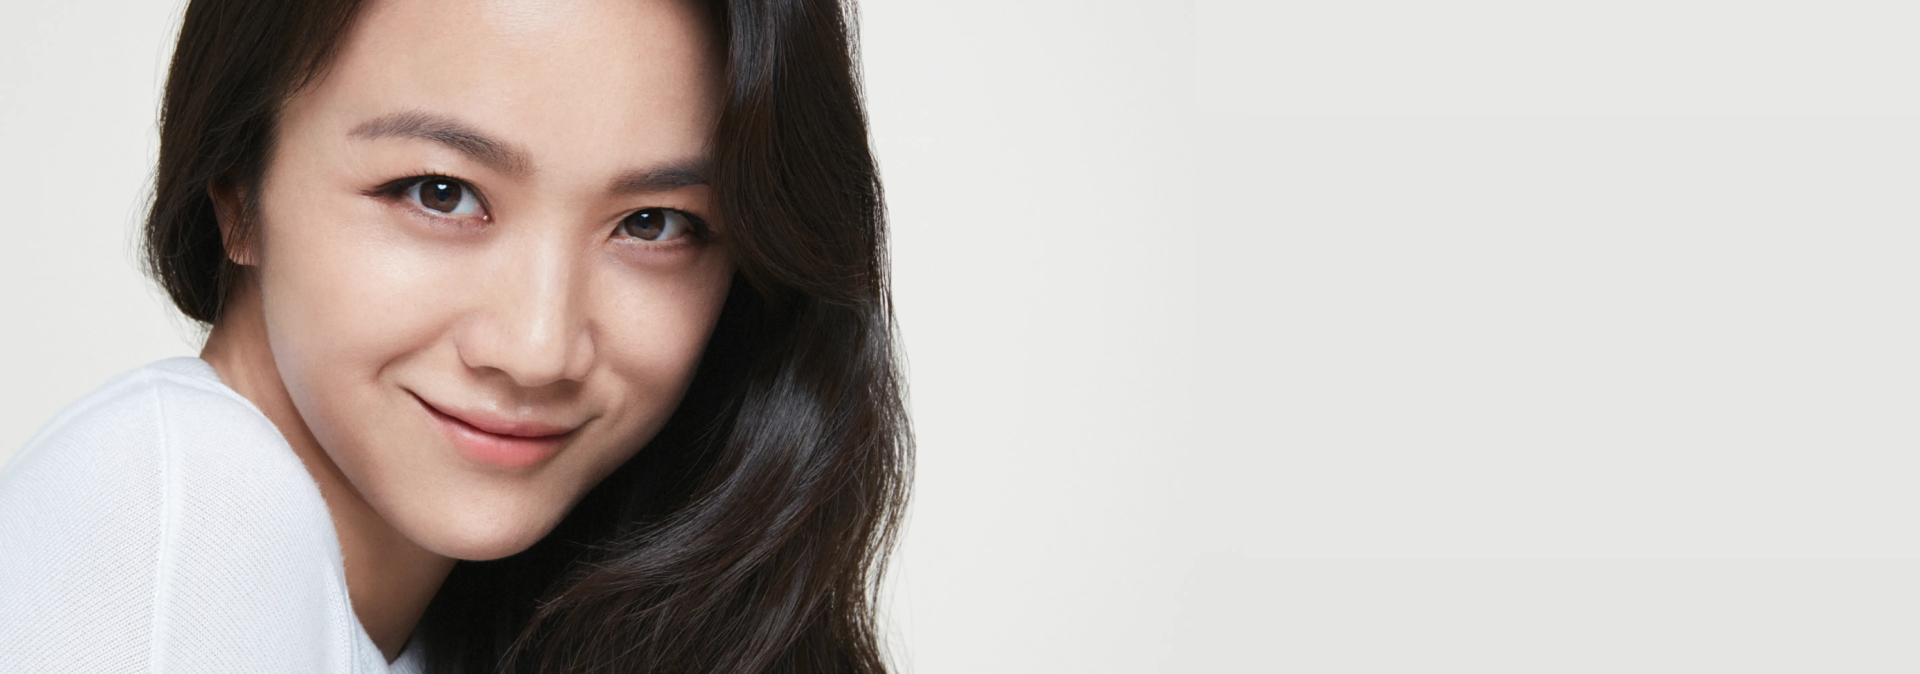
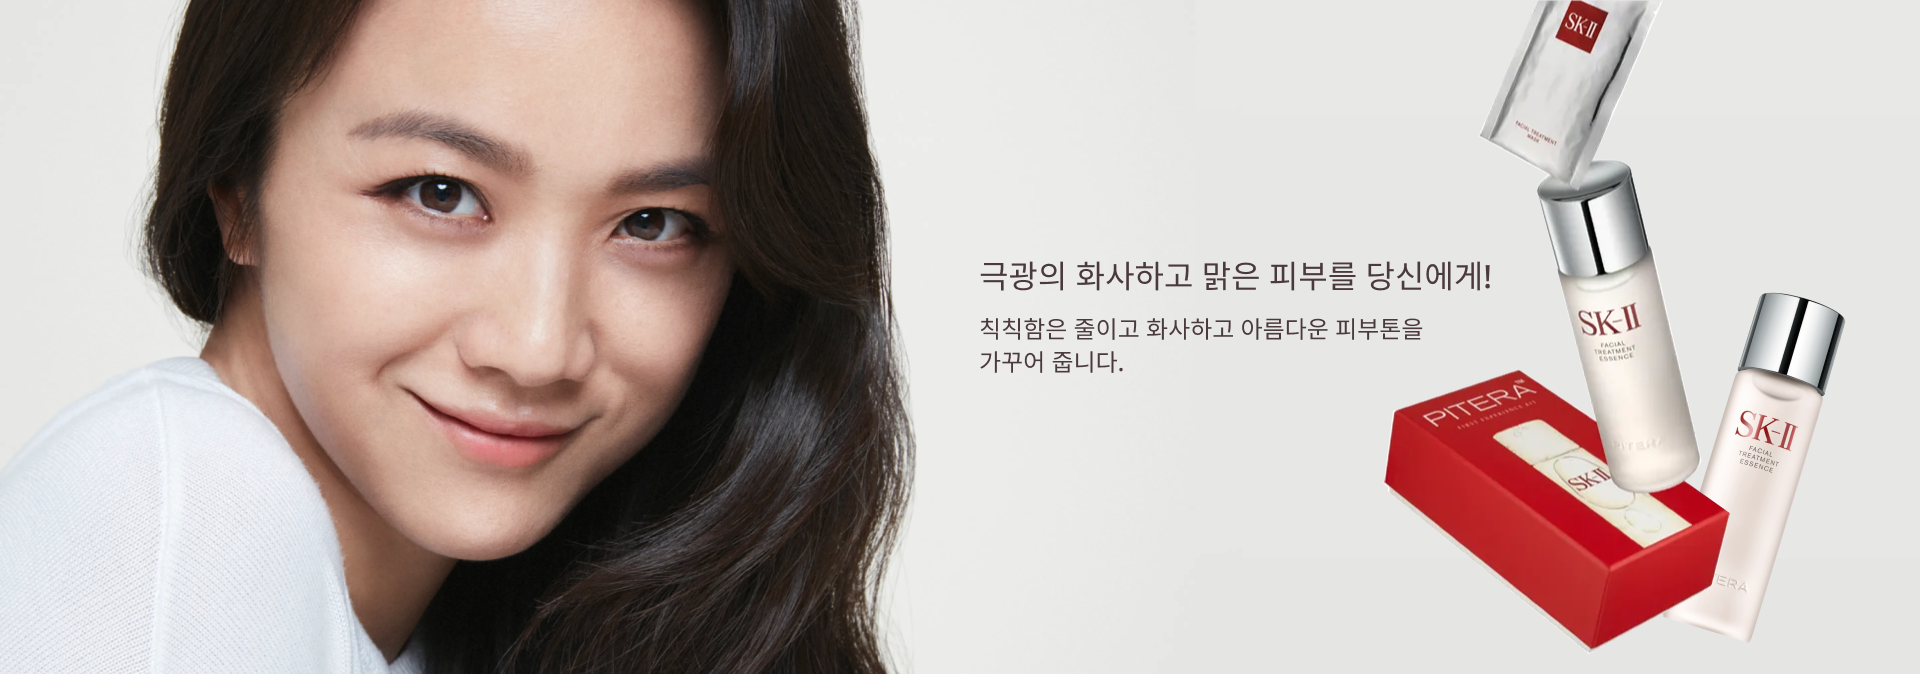
main slide css

Changed region(s): [[0.7188, 0.0, 0.9688, 0.9659], [0.5, 0.3739, 0.7812, 0.4362], [0.5, 0.4674, 0.75, 0.5608]]

diff --git a/SK-II/css/sk2.min.css b/SK-II/css/sk2.min.css
@@ -1,1 +1,1 @@
-@import"default.css";@import"//fonts.googleapis.com/earlyaccess/notosanskr.css";body{background:#ededed;font-family:"Noto Sans KR",sans-serif}#header{width:100%;height:100px;top:0;background:#d90327;position:relative;z-index:1}#innerbox{width:100%;height:auto;position:absolute;top:0;z-index:99999}#innerbox h1{position:absolute;z-index:9999;width:99px;height:42px;top:25px;left:20%}#innerbox .navigation{width:100%;height:100px;position:fixed;display:flex;background:linear-gradient(180deg, rgba(255, 255, 255, 0) 0%, rgba(255, 255, 255, 0.5) 100%);-webkit-backdrop-filter:blur(15px);backdrop-filter:blur(15px)}#innerbox .navigation .gnb{display:flex;flex-direction:row;width:100%;height:50px;position:absolute;line-height:50px;font-size:1.25rem;top:25px;left:30%}#innerbox .navigation .gnb>li{justify-content:space-between;text-align:center;margin-left:30px}#innerbox .navigation .gnb>li>a{font-weight:bold;color:#fff}#innerbox .navigation .gnb>li>a>span{display:block;width:100%;height:5px;background:#fff;margin-top:-10px}#innerbox .navigation .gnb>li .sub{width:60%;height:500px;background:#fff;position:absolute;top:75px;left:-160px;box-sizing:border-box;border-radius:0 0 20px 20px;display:none}#innerbox .navigation .gnb>li .sub>li{display:flex;flex-direction:column;line-height:40px;text-align:left;margin:20px 0 0 10%}#innerbox .navigation .gnb>li .sub>li>a{color:#222}#innerbox .navigation .gnb>li .sub>li>a>span{position:absolute;top:48px;left:330px}#innerbox .navigation .gnb>li .sub>li a:hover{color:#f02}#innerbox .navigation .gnb>li .sub>li:first-child{margin-top:40px}#navbar{display:none}#main_slide{width:100%;height:674px}
+@import"default.css";@import"//fonts.googleapis.com/earlyaccess/notosanskr.css";body{background:#ededed;font-family:"Noto Sans KR",sans-serif}#header{width:100%;height:100px;top:0;background:#d90327;position:relative;z-index:1}#innerbox{width:100%;height:auto;position:absolute;top:0;z-index:99999}#innerbox h1{position:absolute;z-index:9999;width:99px;height:42px;top:25px;left:20%}#innerbox .navigation{width:100%;height:100px;position:fixed;display:flex;background:linear-gradient(180deg, rgba(255, 255, 255, 0) 0%, rgba(255, 255, 255, 0.5) 100%);-webkit-backdrop-filter:blur(15px);backdrop-filter:blur(15px)}#innerbox .navigation .gnb{display:flex;flex-direction:row;width:100%;height:50px;position:absolute;line-height:50px;font-size:1.15rem;top:20px;left:32%}#innerbox .navigation .gnb>li{justify-content:space-between;text-align:center;margin-left:30px}#innerbox .navigation .gnb>li>a{font-weight:500;color:#fff}#innerbox .navigation .gnb>li>a>span{display:block;width:100%;height:5px;background:#fff;margin-top:-10px}#innerbox .navigation .gnb>li .sub{width:60%;height:500px;background:#fff;position:absolute;top:75px;left:-160px;box-sizing:border-box;border-radius:0 0 20px 20px;display:none}#innerbox .navigation .gnb>li .sub>li{display:flex;flex-direction:column;line-height:40px;text-align:left;margin:20px 0 0 10%}#innerbox .navigation .gnb>li .sub>li>a{color:#222}#innerbox .navigation .gnb>li .sub>li>a>span{position:absolute;top:48px;left:330px}#innerbox .navigation .gnb>li .sub>li a:hover{color:#f02}#innerbox .navigation .gnb>li .sub>li:first-child{margin-top:40px}#navbar{display:none}#main_slide{width:100%;height:auto;position:relative}#main_slide>button{width:80px;height:100px;background:rgba(255,255,255,.6);position:absolute;cursor:pointer;z-index:8888}#main_slide>button:nth-of-type(1){left:0;top:40%}#main_slide>button:nth-of-type(2){right:0;top:40%;transform:rotateY(180deg)}#main_slide>button>img{margin:25px;left:20px}#main_slide>ul{display:flex;overflow:hidden}#main_slide>ul>li>img{width:100vw}#main_slide>ul .slide1 .inner-wrapper1>p{width:560px;height:35px;position:absolute;top:40%;color:#fff;left:15%;font-size:30px}#main_slide>ul .slide1 .inner-wrapper1>p:nth-of-type(2){top:55%}#main_slide>ul .slide1 .inner-wrapper1>p:nth-of-type(3){top:410px;font-size:.9rem;top:80%}

diff --git a/SK-II/index.html b/SK-II/index.html
@@ -64,31 +64,23 @@
     </header>
     <section>
         <div id="main_slide">
+            <button><img src="attr/icon/slideBtn.png"></button>
+            <button><img src="attr/icon/slideBtn.png"></button>
             <ul>
                 <li class="slide1">
                     <img src="attr/main_slide/Slide1.png" alt="">
                     <div class="inner-wrapper1">
                         <p>당신의 피부를 맑고 화사하게<br>
                             밝혀주는 <strong>브라이트닝 에센스</strong>를 만나보세요</p>
-                        <p>모두가 인정하는 넘버 원 브라이트닝 에센스<br>
-                            *2021년 10월 기점의 관련 시장 판매액 및 판매량 기준</p>
+                        <p>모두가 인정하는 넘버 원 브라이트닝 에센스</p>
+                        <p>*2021년 10월 기점의 관련 시장 판매액 및 판매량 기준</p>
                     </div>
                 </li>
                 <li class="slide2">
                     <img src="attr/main_slide/Slide2.png" alt="">
-                    <div class="inner-wrapper2">
-                        <p>극광의 화사하고 맑은 피부를 당신에게!</p>
-                        <p>칙칙함은 줄이고 화사하고 아름다운 피부톤을 가꾸어 줍니다.</p>
-                        <img src="attr/main_slide/bannerSkin.png" alt="">
-                    </div>
                 </li>
                 <li class="slide3">
                     <img src="attr/main_slide/Slide3.png" alt="">
-                    <div class="inner-wrapper3">
-                        <p>건조한 피부를 다시 촉촉한 수분감으로 가득 채워주는 <strong>스킨파워크림</strong>과 함께하세요</p>
-                        <p>강력하고 풍부한 수분감으로 피부 속 깊은 곳부터 강력한 힘을 불어넣습니다.</p>
-                        <img src="attr/main_slide/bannerCream.png" alt="">
-                    </div>
                 </li>
             </ul>
         </div>
@@ -130,5 +122,23 @@
             </div>
         </div>
     </section>
+    <section>
+
+    </section>
+    <footer>
+        <div id="sns">
+            <img src="attr/icon/sns1.png">
+            <img src="attr/icon/sns2.png">
+            <img src="attr/icon/sns3.png">
+            <img src="attr/icon/sns4.png">
+        </div>
+        <div class="footer_txt">
+            <img src="attr/logo/logo-white.png">
+            <p>© 2023 Procter & Gamble. All Rights Reserved. JVA2020-02-001</p>
+            <p><a href="#">고객센터</a></p>
+            <p><a href="#">개인정보처리방침</a></p>
+            <p><a href="#">이용약관</a></p>
+        </div>
+    </footer>
 </body>
 </html>

diff --git a/SK-II/css/scss/sk2.scss b/SK-II/css/scss/sk2.scss
@@ -44,15 +44,15 @@ body{
             height: 50px;
             position: absolute;
             line-height: 50px;
-            font-size: 1.25rem;
-            top: 25px;
-            left: 30%;
+            font-size: 1.15rem;
+            top: 20px;
+            left: 32%;
             >li{
                 justify-content: space-between;
                 text-align: center;
                 margin-left: 30px;
                 >a{
-                    font-weight: bold;
+                    font-weight: 500;
                     color: #fff;
                     >span{
                         display: block;
@@ -116,22 +116,64 @@ body{
 
 #main_slide{
     width: 100%;
-    height: 674px;
+    height: auto;
+    position: relative;
+    >button{
+        width: 80px;
+        height: 100px;
+        background: rgba(255, 255, 255, 0.6);
+        position: absolute;
+        cursor: pointer;
+        z-index: 8888;
+        &:nth-of-type(1){
+            left: 0;
+            top: 40%;
+        }
+        &:nth-of-type(2){
+            right: 0;
+            top: 40%;
+            transform: rotateY(180deg);
+        }
+        >img{
+            margin:25px;
+            left: 20px;
+        }
+    }
     >ul{
+        display: flex;
+        overflow: hidden;
+        >li{
+            >img{
+                width: 100vw;
+            }
+            
+        }
         .slide1{
             .inner-wrapper1{
-
+                >p{
+                    width: 560px;
+                    height: 35px;
+                    position: absolute;
+                    top: 40%;
+                    color: #fff;
+                    left: 15%;
+                    font-size: 30px;
+                    &:nth-of-type(2){
+                        top: 55%;
+                    }
+                    &:nth-of-type(3){
+                        top: 410px;
+                        font-size: 0.9rem;
+                        top: 80%;
+                    }
+                }
         }
         }
         .slide2{
-            .inner-wrapper2{
 
-            }
         }
         .slide3{
-            .inner-wrapper3{
 
-            }
         }
     }
     

diff --git a/SK-II/css/sk2.css b/SK-II/css/sk2.css
@@ -45,9 +45,9 @@ body {
   height: 50px;
   position: absolute;
   line-height: 50px;
-  font-size: 1.25rem;
-  top: 25px;
-  left: 30%;
+  font-size: 1.15rem;
+  top: 20px;
+  left: 32%;
 }
 #innerbox .navigation .gnb > li {
   justify-content: space-between;
@@ -55,7 +55,7 @@ body {
   margin-left: 30px;
 }
 #innerbox .navigation .gnb > li > a {
-  font-weight: bold;
+  font-weight: 500;
   color: #fff;
 }
 #innerbox .navigation .gnb > li > a > span {
@@ -103,5 +103,51 @@ body {
 }
 #main_slide {
   width: 100%;
-  height: 674px;
+  height: auto;
+  position: relative;
+}
+#main_slide > button {
+  width: 80px;
+  height: 100px;
+  background: rgba(255, 255, 255, 0.6);
+  position: absolute;
+  cursor: pointer;
+  z-index: 8888;
+}
+#main_slide > button:nth-of-type(1) {
+  left: 0;
+  top: 40%;
+}
+#main_slide > button:nth-of-type(2) {
+  right: 0;
+  top: 40%;
+  transform: rotateY(180deg);
+}
+#main_slide > button > img {
+  margin: 25px;
+  left: 20px;
+}
+#main_slide > ul {
+  display: flex;
+  overflow: hidden;
+}
+#main_slide > ul > li > img {
+  width: 100vw;
+}
+#main_slide > ul .slide1 .inner-wrapper1 > p {
+  width: 560px;
+  height: 35px;
+  position: absolute;
+  top: 40%;
+  color: #fff;
+  left: 15%;
+  font-size: 30px;
+}
+#main_slide > ul .slide1 .inner-wrapper1 > p:nth-of-type(2) {
+  top: 55%;
+}
+#main_slide > ul .slide1 .inner-wrapper1 > p:nth-of-type(3) {
+  top: 410px;
+  font-size: 0.9rem;
+  top: 80%;
 }
